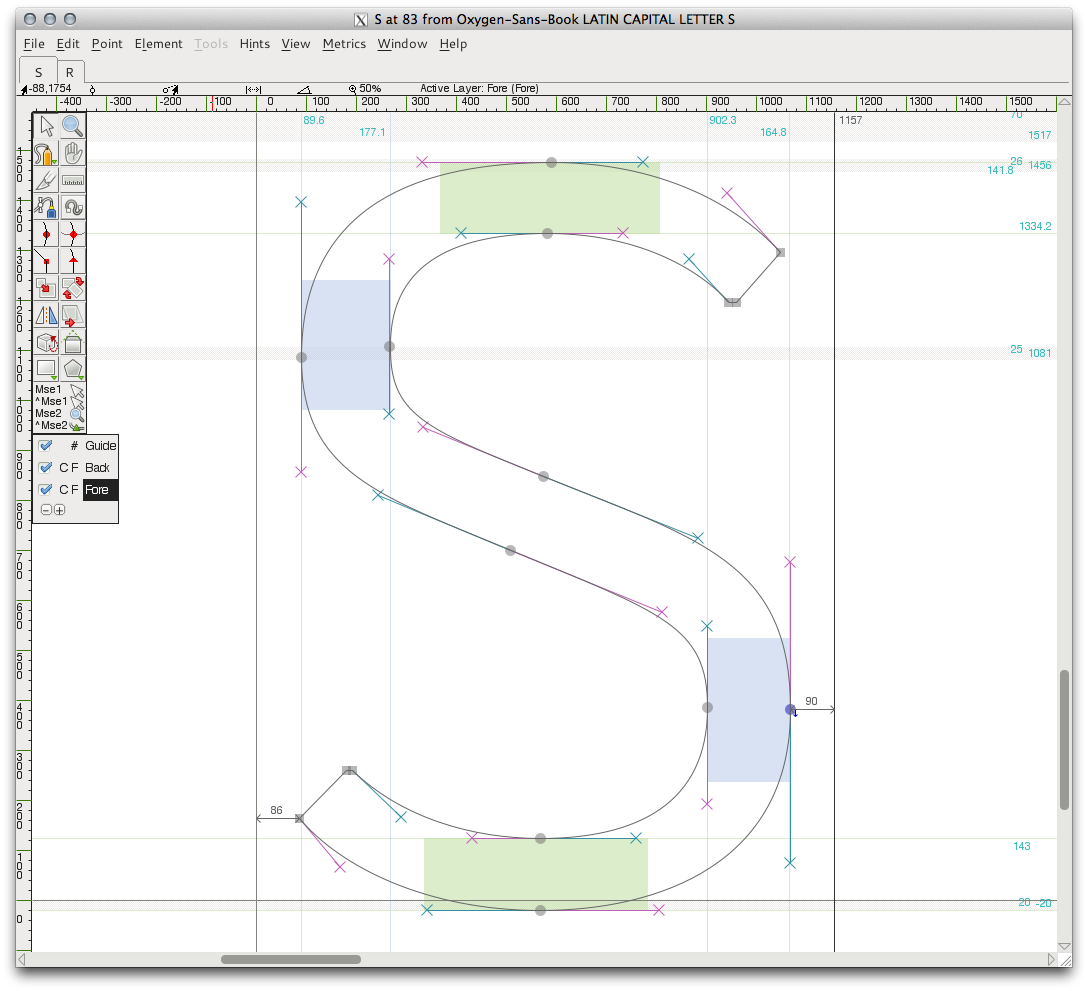
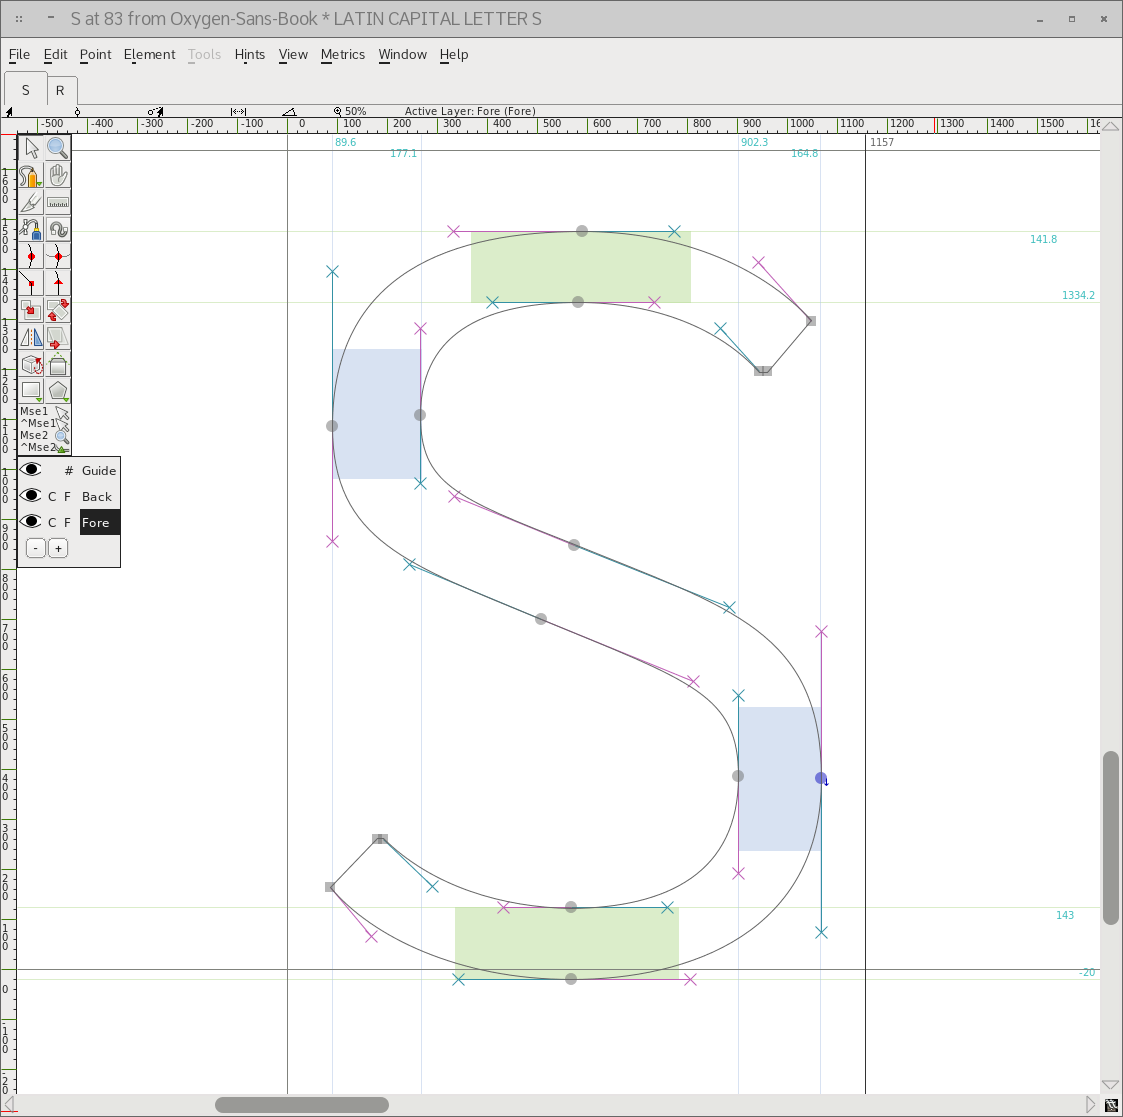
addedto

diff --git a/_site/index.html b/_site/index.html
@@ -51,15 +51,8 @@
 
 
 <!-- END MENU -->
-<!-- START SHADOW -->
+<div class="nailCenter"><img class="img-responsive" src="assets/images/shadow-slider-top.png"></div>
 
-<div class="row">
-    <div class="col-xs-12 col-sm-12 col-md-12 col-lg-12 nailCenter">
-        <img class="img-responsive" src="assets/images/shadow-slider-top.png">
-        </div> <!-- columns -->
-</div> <!-- row -->
-
-<!-- END SHADOW -->
 <!-- START MAIN HEADER -->
 
 <div class="row">
@@ -239,17 +232,19 @@
 <!-- END-BREAK -->
     <div class="readme row">
 
-<div class="col-xs-12 col-sm-12 col-md-10 col-lg-10">
+<div class="col-xs-12 col-sm-12 col-md-6 col-lg-6">
 
 <p class="lead-in"><img style="height:10px"src="assets/images/arrow.png"/>Oxygen Font Specifications</p>
 <p>The Oxygen Fonts are released in various file types; OpenType (.otf), TrueType (.ttf), embedded OpenType (.eot) and WOFF (.woff).</p>
-<p>Below is the basic latin character set, to give you a quick overview of the font's forms.</p>
-</div>
+<p><i>(Right)</i> the basic latin character set, to give you a quick overview of the font's forms.</p>
+<p style="font-size:6em;line-height:1em;letter-spacing:-0.12em;color:#333;">G s n d a m j i</p>
+<p style="font-weight:bold;font-size:6em;line-height:1em;letter-spacing:-0.1em;color:#333;">G s n d a m j i</p>
+<p style="font-family:oxygensansbold;font-size:6em;line-height:1em;letter-spacing:-0.1em;color:#444;">G s n d a m j i</p>
+
 </div>
 
-<div class="readme row">
     
-    <div class="col-xs-12 col-sm-12 col-md-12 col-lg-12">
+    <div class="col-xs-12 col-sm-12 col-md-6 col-lg-6">
     
 
 <div class="specBox specText">
@@ -586,7 +581,7 @@ Free, functional, clean, uncluttered...</div>
 <div class="col-xs-12 col-sm-12 col-md-6 col-lg-6">
 
 <p class="lead-in"><img style="height:10px"src="assets/images/arrow.png"/>GNU/Linux Native</p>
-<img class="img-responsive" src="assets/images/s_glyph_edit.png"/>
+<p><img class="img-responsive" src="assets/images/s_gridfit.png"/></p>
 <p>The Oxygen Fonts have been developed 'natively' on
 GNU/Linux systems, mainly using FontForge. This has allowed the
 fonts to be developed closely with Freetype's render and hinting

diff --git a/_includes/readme4.html b/_includes/readme4.html
@@ -1,16 +1,18 @@
     <div class="readme row">
 
-<div class="col-xs-12 col-sm-12 col-md-10 col-lg-10">
+<div class="col-xs-12 col-sm-12 col-md-6 col-lg-6">
 
 <p class="lead-in"><img style="height:10px"src="assets/images/arrow.png"/>Oxygen Font Specifications</p>
 <p>The Oxygen Fonts are released in various file types; OpenType (.otf), TrueType (.ttf), embedded OpenType (.eot) and WOFF (.woff).</p>
-<p>Below is the basic latin character set, to give you a quick overview of the font's forms.</p>
-</div>
+<p><i>(Right)</i> the basic latin character set, to give you a quick overview of the font's forms.</p>
+<p style="font-size:6em;line-height:1em;letter-spacing:-0.12em;color:#333;">G s n d a m j i</p>
+<p style="font-weight:bold;font-size:6em;line-height:1em;letter-spacing:-0.1em;color:#333;">G s n d a m j i</p>
+<p style="font-family:oxygensansbold;font-size:6em;line-height:1em;letter-spacing:-0.1em;color:#444;">G s n d a m j i</p>
+
 </div>
 
-<div class="readme row">
     
-    <div class="col-xs-12 col-sm-12 col-md-12 col-lg-12">
+    <div class="col-xs-12 col-sm-12 col-md-6 col-lg-6">
     
 
 <div class="specBox specText">

diff --git a/_includes/readme3.html b/_includes/readme3.html
@@ -3,7 +3,7 @@
 <div class="col-xs-12 col-sm-12 col-md-6 col-lg-6">
 
 <p class="lead-in"><img style="height:10px"src="assets/images/arrow.png"/>GNU/Linux Native</p>
-<img class="img-responsive" src="assets/images/s_glyph_edit.png"/>
+<p><img class="img-responsive" src="assets/images/s_gridfit.png"/></p>
 <p>The Oxygen Fonts have been developed 'natively' on
 GNU/Linux systems, mainly using FontForge. This has allowed the
 fonts to be developed closely with Freetype's render and hinting

diff --git a/_includes/shadow_top.html b/_includes/shadow_top.html
@@ -1,9 +1,1 @@
-<!-- START SHADOW -->
-
-<div class="row">
-    <div class="col-xs-12 col-sm-12 col-md-12 col-lg-12 nailCenter">
-        <img class="img-responsive" src="assets/images/shadow-slider-top.png">
-        </div> <!-- columns -->
-</div> <!-- row -->
-
-<!-- END SHADOW -->
+<div class="nailCenter"><img class="img-responsive" src="assets/images/shadow-slider-top.png"></div>
